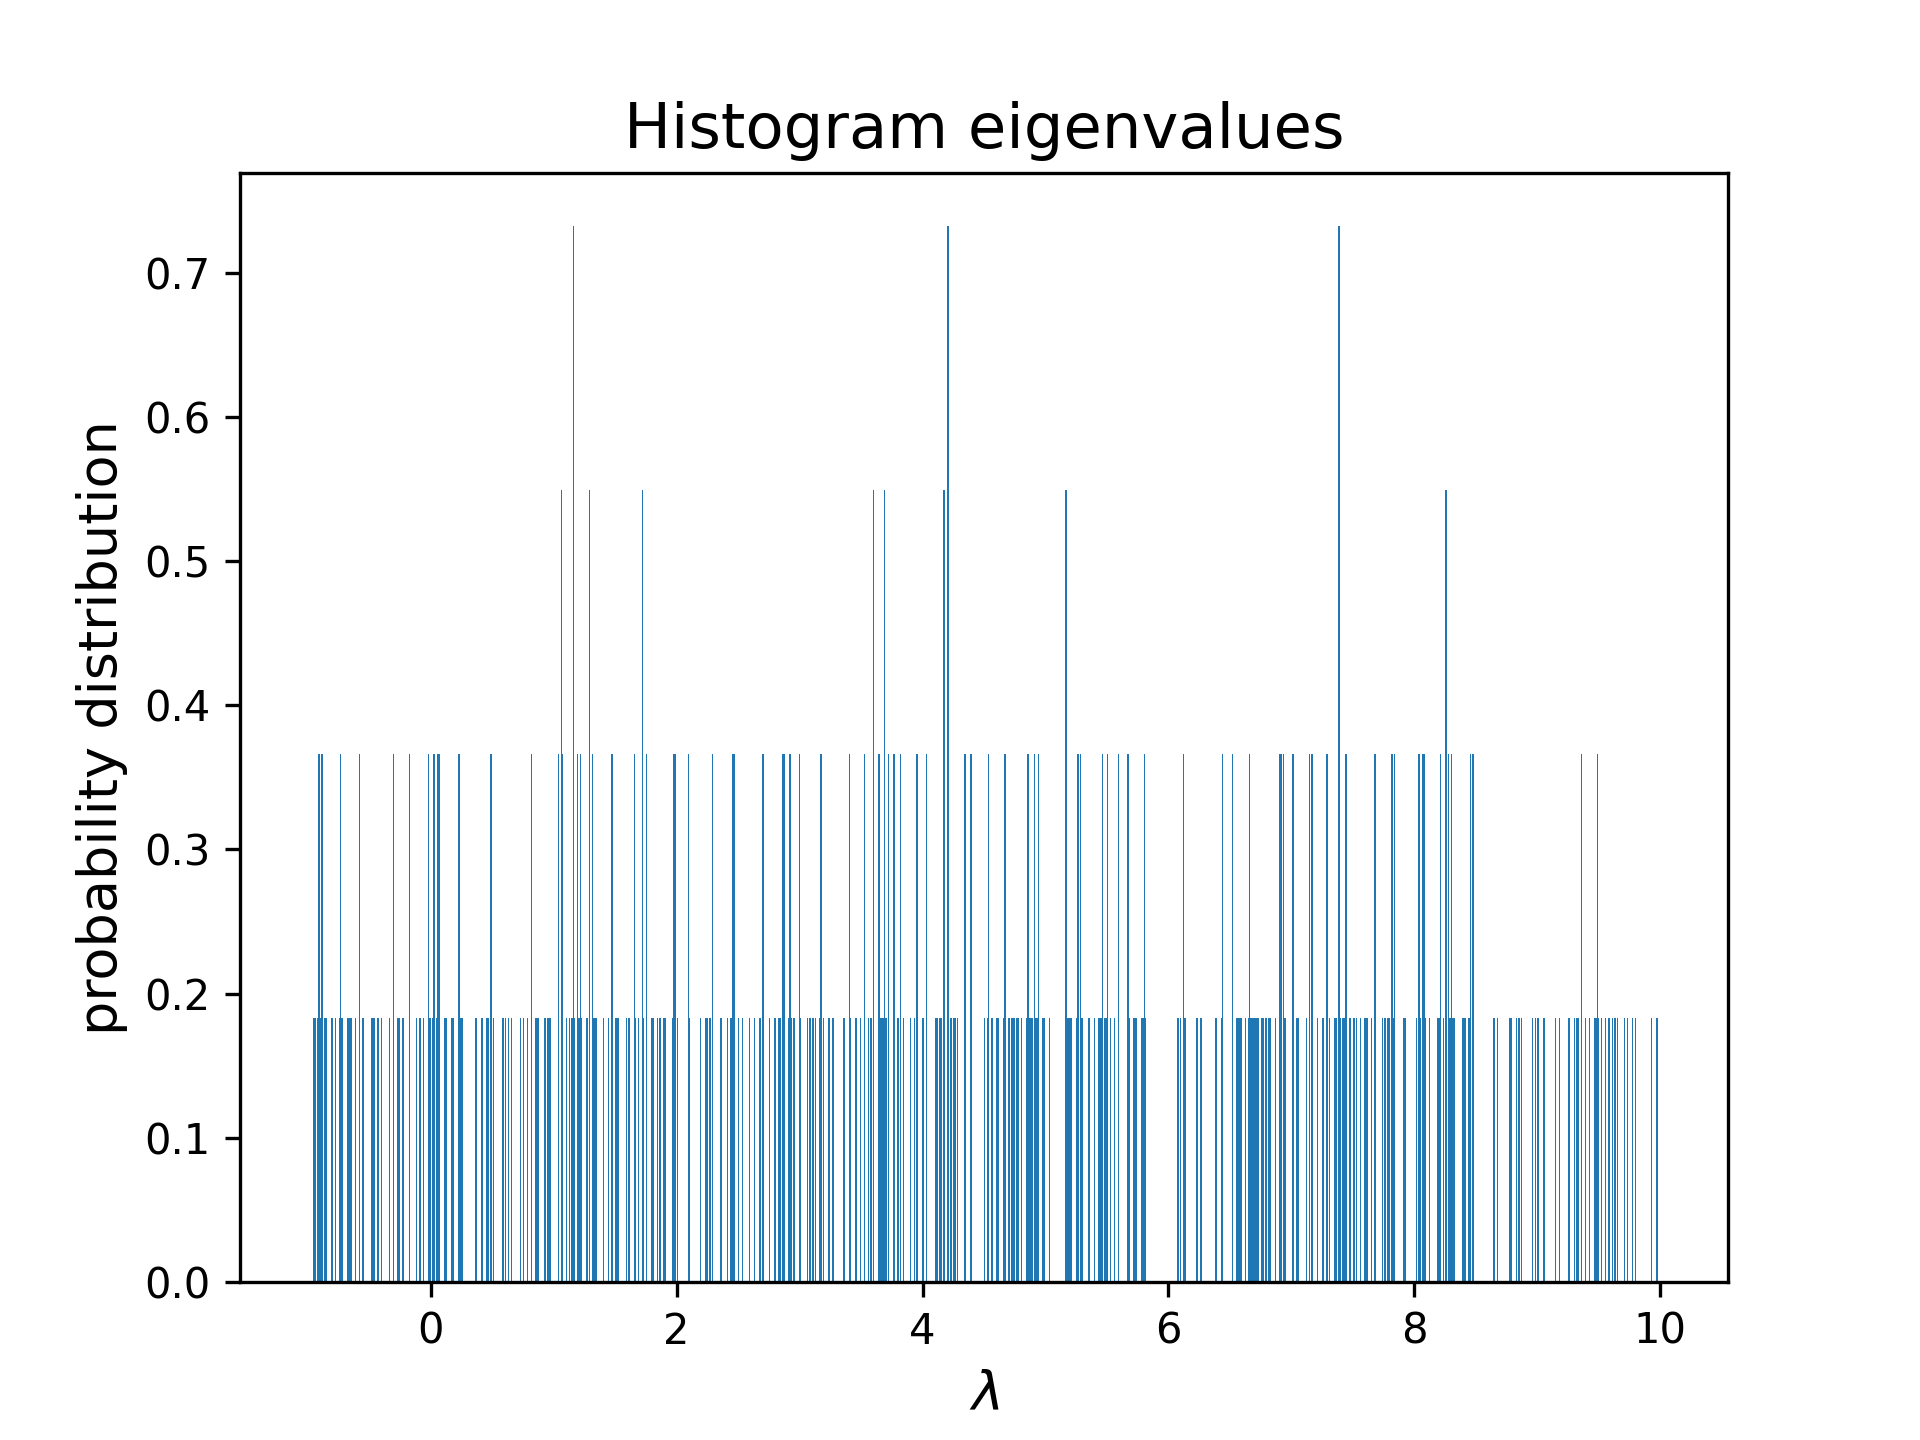
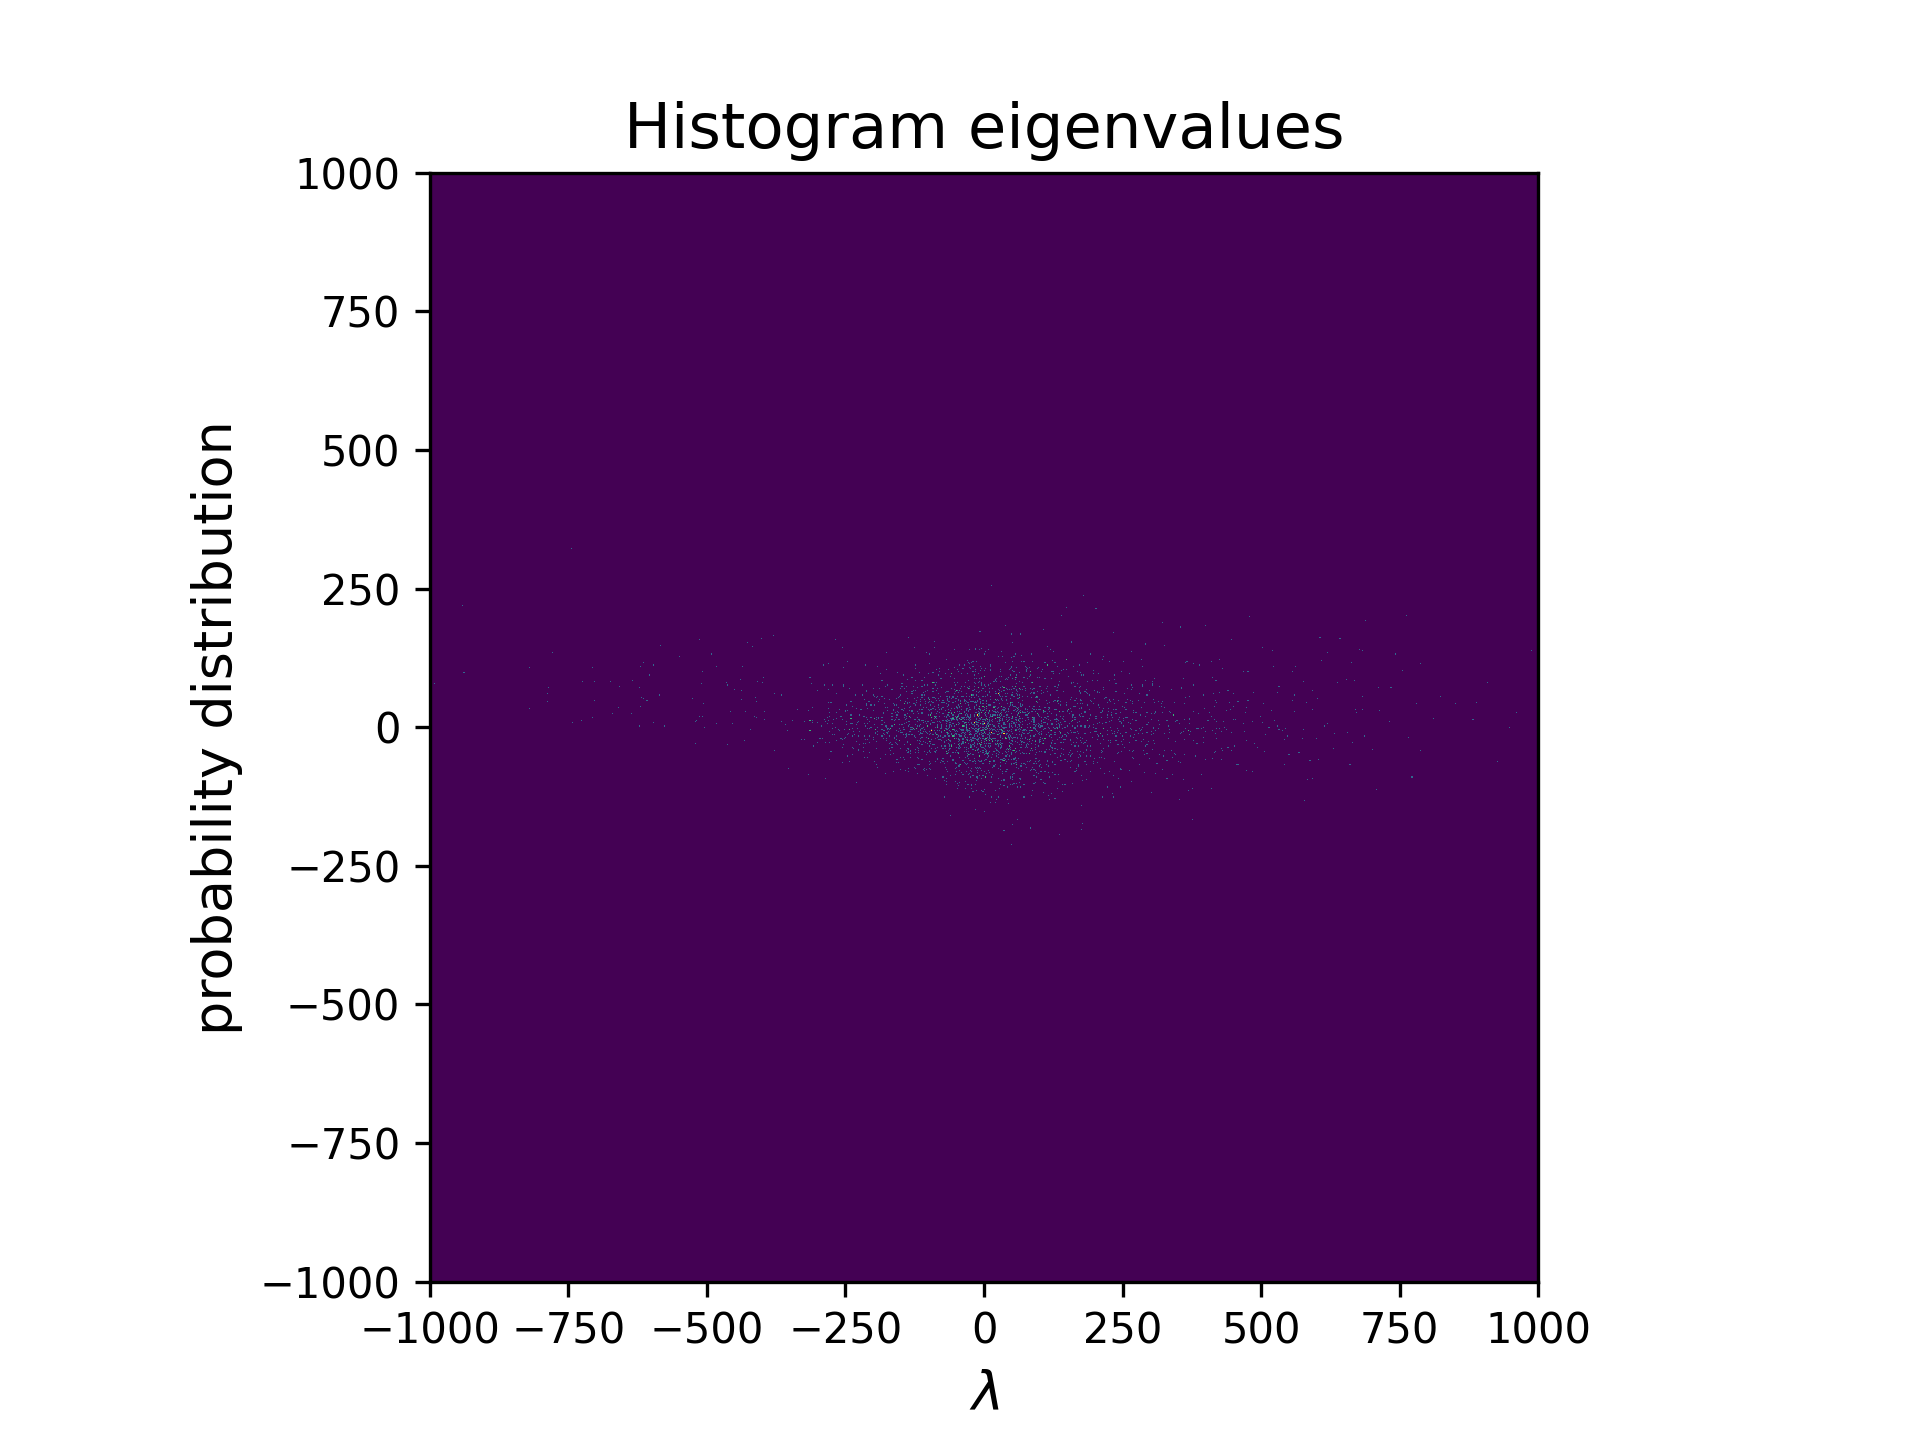
version_28.6.

diff --git a/Test3.py b/Test3.py
@@ -1,0 +1,145 @@
+import numpy as np
+from scipy import linalg as lg
+from scipy import signal
+import matplotlib.pyplot as plt
+import pandas as pd
+import cmath
+
+
+#Defining important constants
+
+N = int(4)
+M = int(8)
+
+
+#Defining matricies
+mathcalA = np.zeros(shape=(N*N,N*N),dtype=np.complex_)
+kappa = np.zeros(shape=(N*N,N*N),dtype=np.complex_)
+U = np.zeros(shape=(N*N,N*N))
+tildekappa = np.zeros(shape=(N*N,N*N),dtype=np.complex_)
+K_0 = np.zeros(shape=(N*N,N*N),dtype=np.complex_)
+kappa_0 = np.zeros(shape=(N*N,N*N),dtype=np.complex_)
+mathcalL = np.zeros(shape=(N*N,N*N),dtype=np.complex_)
+Lambda = np.array([])
+dif = np.array([])
+
+
+#Implementing U from Timm and Lange
+for i in range(N):
+    for j in range(N):
+        for m in range(N):
+            for n in range(N):
+                if (N*m+n) == (N*i +j):
+                    if m == n:
+                        U[N*i+j][(N*m+n)] = 1/np.sqrt((m+2) * (m+1))
+                    else:
+                        U[N*i+j][(N*m+n)] = 1
+                elif n == m:
+                    if j == i:
+                        if n<i:
+                            U[N*i+j][(N*m+n)] = 1/np.sqrt((m+2) * (m+1))
+                        elif n == i+1:
+                            U[N*i+j][(N*m+n)] = -(m+1)/np.sqrt((m+2) * (m+1))
+
+
+#Create \mathcalA
+for i in range(N):
+    for j in range(N):
+        for m in range(N):
+            for n in range(N):
+                mathcalA[(N*i+j)][(N*m+n)] = 13
+
+for i in range(N):                  #Block 1
+    for j in range(N):
+        for m in range(N):
+            for n in range(N):
+                if (N*i+j) < int(N*N/4):
+                    if int(N*N/4) <= (N*m+n):
+                        if (N*m+n) < int(3*N*N/4):
+                            mathcalA[(N*i+j)][(N*m+n)] = 0
+
+for i in range(N):                  #Block 2
+    for j in range(N):
+        for m in range(N):
+            for n in range(N):
+                if (N*m+n) < int(N*N/4):
+                    if int(N*N/4) <= (N*i+j):
+                        if (N*i+j) < int(3*N*N/4):
+                            mathcalA[(N*i+j)][(N*m+n)] = 0
+
+for i in range(N):                  #Block 3
+    for j in range(N):
+        for m in range(N):
+            for n in range(N):
+                if (N*m+n) >= int(3*N*N/4):
+                    if int(N*N/4) <= (N*i+j):
+                        if (N*i+j) < int(3*N*N/4):
+                            mathcalA[(N*i+j)][(N*m+n)] = 0
+
+for i in range(N):                  #Block 4
+    for j in range(N):
+        for m in range(N):
+            for n in range(N):
+                if (N*i+j) >= int(3*N*N/4):
+                    if int(N*N/4) <= (N*m+n):
+                        if (N*m+n) < int(3*N*N/4):
+                            mathcalA[(N*i+j)][(N*m+n)] = 0
+
+
+for i in range(N):                  #A_ijmn = A_jinm
+    for j in range(N):
+        for m in range(N):
+            for n in range(N):
+                if mathcalA[(N*i+j)][(N*m+n)] == 0:
+                    mathcalA[(N*j+i)][(N*n+m)] = mathcalA[(N*i+j)][(N*m+n)]
+
+'''for i in range(N):                  #Normal distributed entrys sigma = 1 for diagonal, sigma = 1/2 off diagonal
+    for j in range(N):
+        for m in range(N):
+            for n in range(N):
+                if mathcalA[(N*i+j)][(N*m+n)] == 13:
+                    if (N*i+j)==(N*m+n):            #diagonal elements
+                        if i==j:
+                            mathcalA[(N*i+j)][(N*m+n)] = np.random.normal(loc=0.0, scale=1, size=None)
+                            mathcalA[(N*j+i)][(N*n+m)] = mathcalA[(N*i+j)][(N*m+n)]
+                        else:
+                            mathcalA[(N*i+j)][(N*m+n)] = complex(np.random.normal(loc=0.0, scale=1, size=None), np.random.normal(loc=0.0, scale=1, size=None))
+                            mathcalA[(N*j+i)][(N*n+m)] = np.conj(mathcalA[(N*i+j)][(N*m+n)])
+                    else:                   #off-diagonal elements
+                        mathcalA[(N*i+j)][(N*m+n)] = complex(np.random.normal(loc=0.0, scale=0.5, size=None), np.random.normal(loc=0.0, scale=0.5, size=None))
+                        mathcalA[(N*j+i)][(N*n+m)] = np.conj(mathcalA[(N*i+j)][(N*m+n)])
+'''
+#kappa = AA^T
+kappa = mathcalA.dot(mathcalA.T)
+
+#tildekappa = UkappaU^T
+tildekappa = U.dot(kappa.dot(U.T))
+
+K_0 = tildekappa
+for a in range(N*N):
+        K_0[N*(N-1)+(N-1)][a] = 0
+for b in range(N*N):
+        K_0[b][N*(N-1)+(N-1)] = 0
+plt.matshow(K_0.real)
+plt.colorbar()
+plt.show()
+
+
+#Calculating mathcalL from K_0 via Lange,Timm (easy way, by back-transforming) Eq.:(23) (bad behavior)
+kappa_0 = U.T.dot(K_0.dot(U))
+
+for i in range(N):
+    for j in range(N):
+        for m in range(N):
+            for n in range(N):
+                if i == m:
+                    for sum in range(N):
+                        mathcalL[N*i+j][N*m+n] += 0.5*kappa_0[sum*N+j][sum*N+n]
+                if j == n:
+                    for sum in range(N):
+                        mathcalL[N*i+j][N*m+n] += 0.5*kappa_0[i*N+sum][m*N+sum]
+                mathcalL[N*i+j][N*m+n] += kappa_0[N*i+m][N*j+n]
+
+values = lg.eigvals(mathcalL)
+
+Lambda = np.append(Lambda, values)

diff --git a/RMT.py b/RMT.py
@@ -8,8 +8,8 @@ import cmath
 
 #Defining important constants
 
-N = int(10)
-M = int(80)
+N = int(20)
+M = int(8)
 
 
 #Defining matricies
@@ -95,16 +95,22 @@ for e in range(M):
                 for n in range(N):
                     if mathcalA[(N*i+j)][(N*m+n)] == 0:
                         mathcalA[(N*j+i)][(N*n+m)] = mathcalA[(N*i+j)][(N*m+n)]
-
+    plt.imshow(mathcalA.real)
     for i in range(N):                  #Normal distributed entrys sigma = 1 for diagonal, sigma = 1/2 off diagonal
         for j in range(N):
             for m in range(N):
                 for n in range(N):
                     if mathcalA[(N*i+j)][(N*m+n)] == 13:
-                        if (N*i+j)==(N*m+n):
-                            mathcalA[(N*i+j)][(N*m+n)] = complex(np.random.normal(loc=0.0, scale=1, size=None), np.random.normal(loc=0.0, scale=1, size=None))
-                        else:
+                        if (N*i+j)==(N*m+n):            #diagonal elements
+                            if i==j:
+                                mathcalA[(N*i+j)][(N*m+n)] = np.random.normal(loc=0.0, scale=1, size=None)
+                                mathcalA[(N*j+i)][(N*n+m)] = mathcalA[(N*i+j)][(N*m+n)]
+                            else:
+                                mathcalA[(N*i+j)][(N*m+n)] = complex(np.random.normal(loc=0.0, scale=1, size=None), np.random.normal(loc=0.0, scale=1, size=None))
+                                mathcalA[(N*j+i)][(N*n+m)] = np.conj(mathcalA[(N*i+j)][(N*m+n)])
+                        else:                   #off-diagonal elements
                             mathcalA[(N*i+j)][(N*m+n)] = complex(np.random.normal(loc=0.0, scale=0.5, size=None), np.random.normal(loc=0.0, scale=0.5, size=None))
+                            mathcalA[(N*j+i)][(N*n+m)] = np.conj(mathcalA[(N*i+j)][(N*m+n)])
 
     #kappa = AA^T
     kappa = mathcalA.dot(mathcalA.T)
@@ -141,14 +147,18 @@ for e in range(M):
 print(Lambda, len(Lambda))
 Lambda_sort = np.sort(Lambda)
 
+Lambda_real = Lambda.real
+Lambda_imag = Lambda.imag
+
 for i in range(len(Lambda_sort)-1):
      dif = np.append(dif, Lambda_sort[i+1]-Lambda_sort[i])
+     dist= np.sqrt(dif.real**2 + dif.imag**2)
 
 
 print("Das ist die Differenz:   ", dif)
 
 #plotting histogram
-n, bins, patches = plt.hist(Lambda, bins = 1000, range = (-1, 10), density = True)
+plt.hist2d(Lambda_real, Lambda_imag, bins = (1000, 1000), range =  [[-1000, 1000], [-1000, 1000]], density = True)
 
 plt.title('Histogram eigenvalues', fontsize = 15)
 plt.xlabel('$\lambda$', fontsize = 13)
@@ -157,7 +167,7 @@ plt.savefig('Plots/Hist.png', dpi=300)
 plt.clf()
 
 #distance
-n, bins, patches = plt.hist(dif, bins = 1000, range = (0, 0.0002), density = True)
+plt.hist(dist, bins = 1000, density = True)
 
 plt.title('Histogram correlation', fontsize = 15)
 plt.xlabel('$\lambda_i - \lambda_j$', fontsize = 13)
